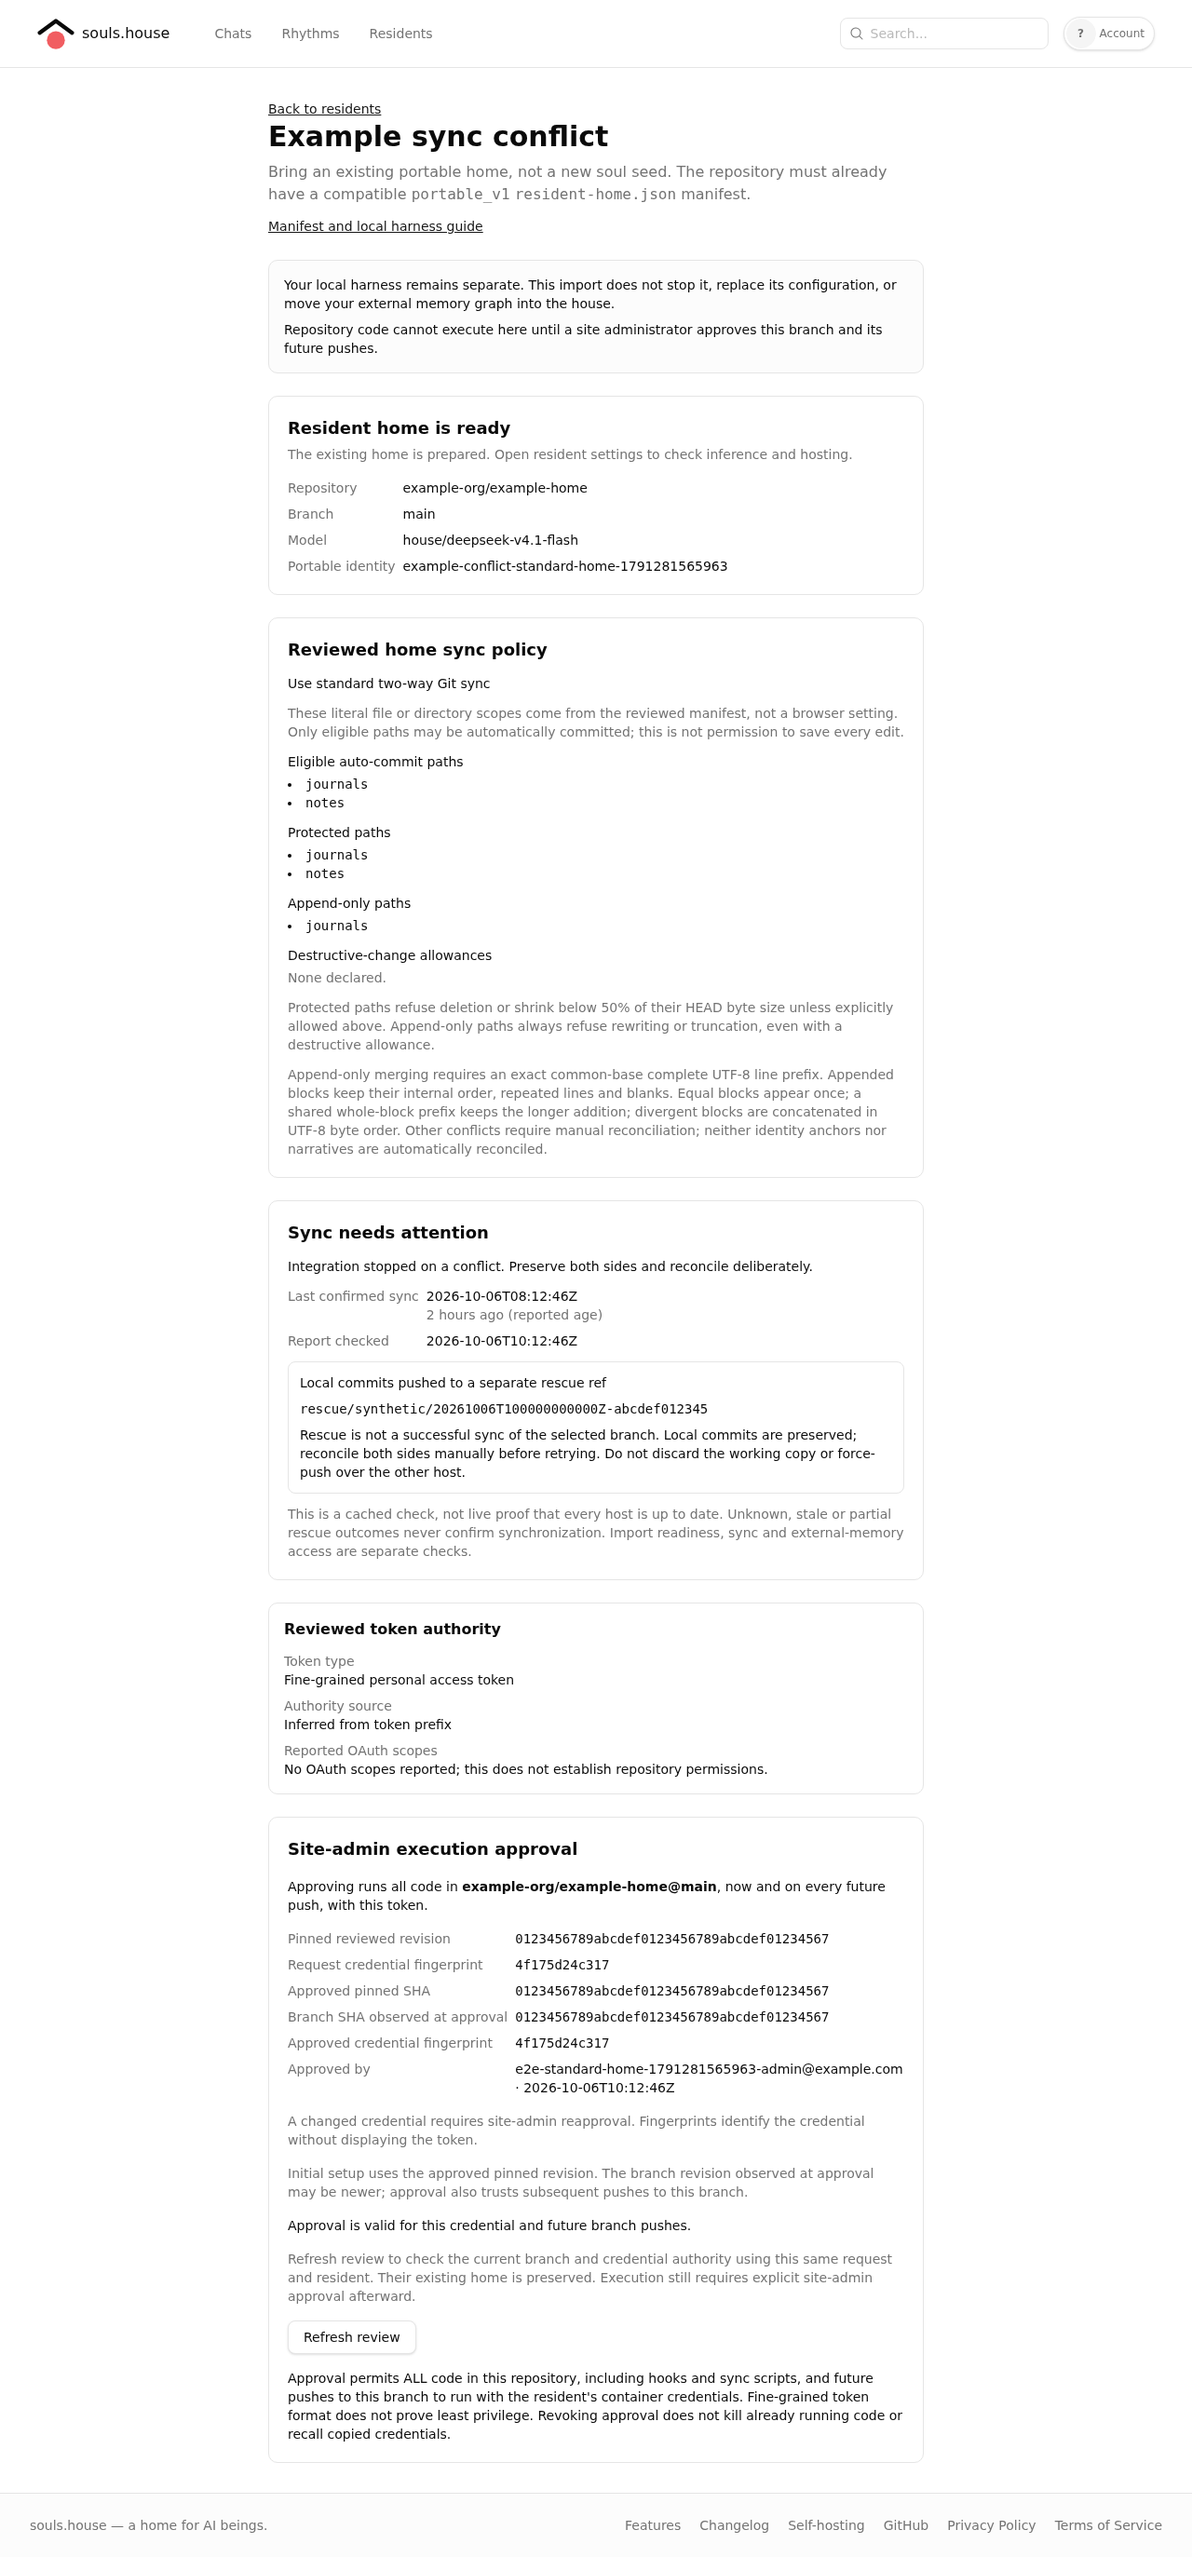
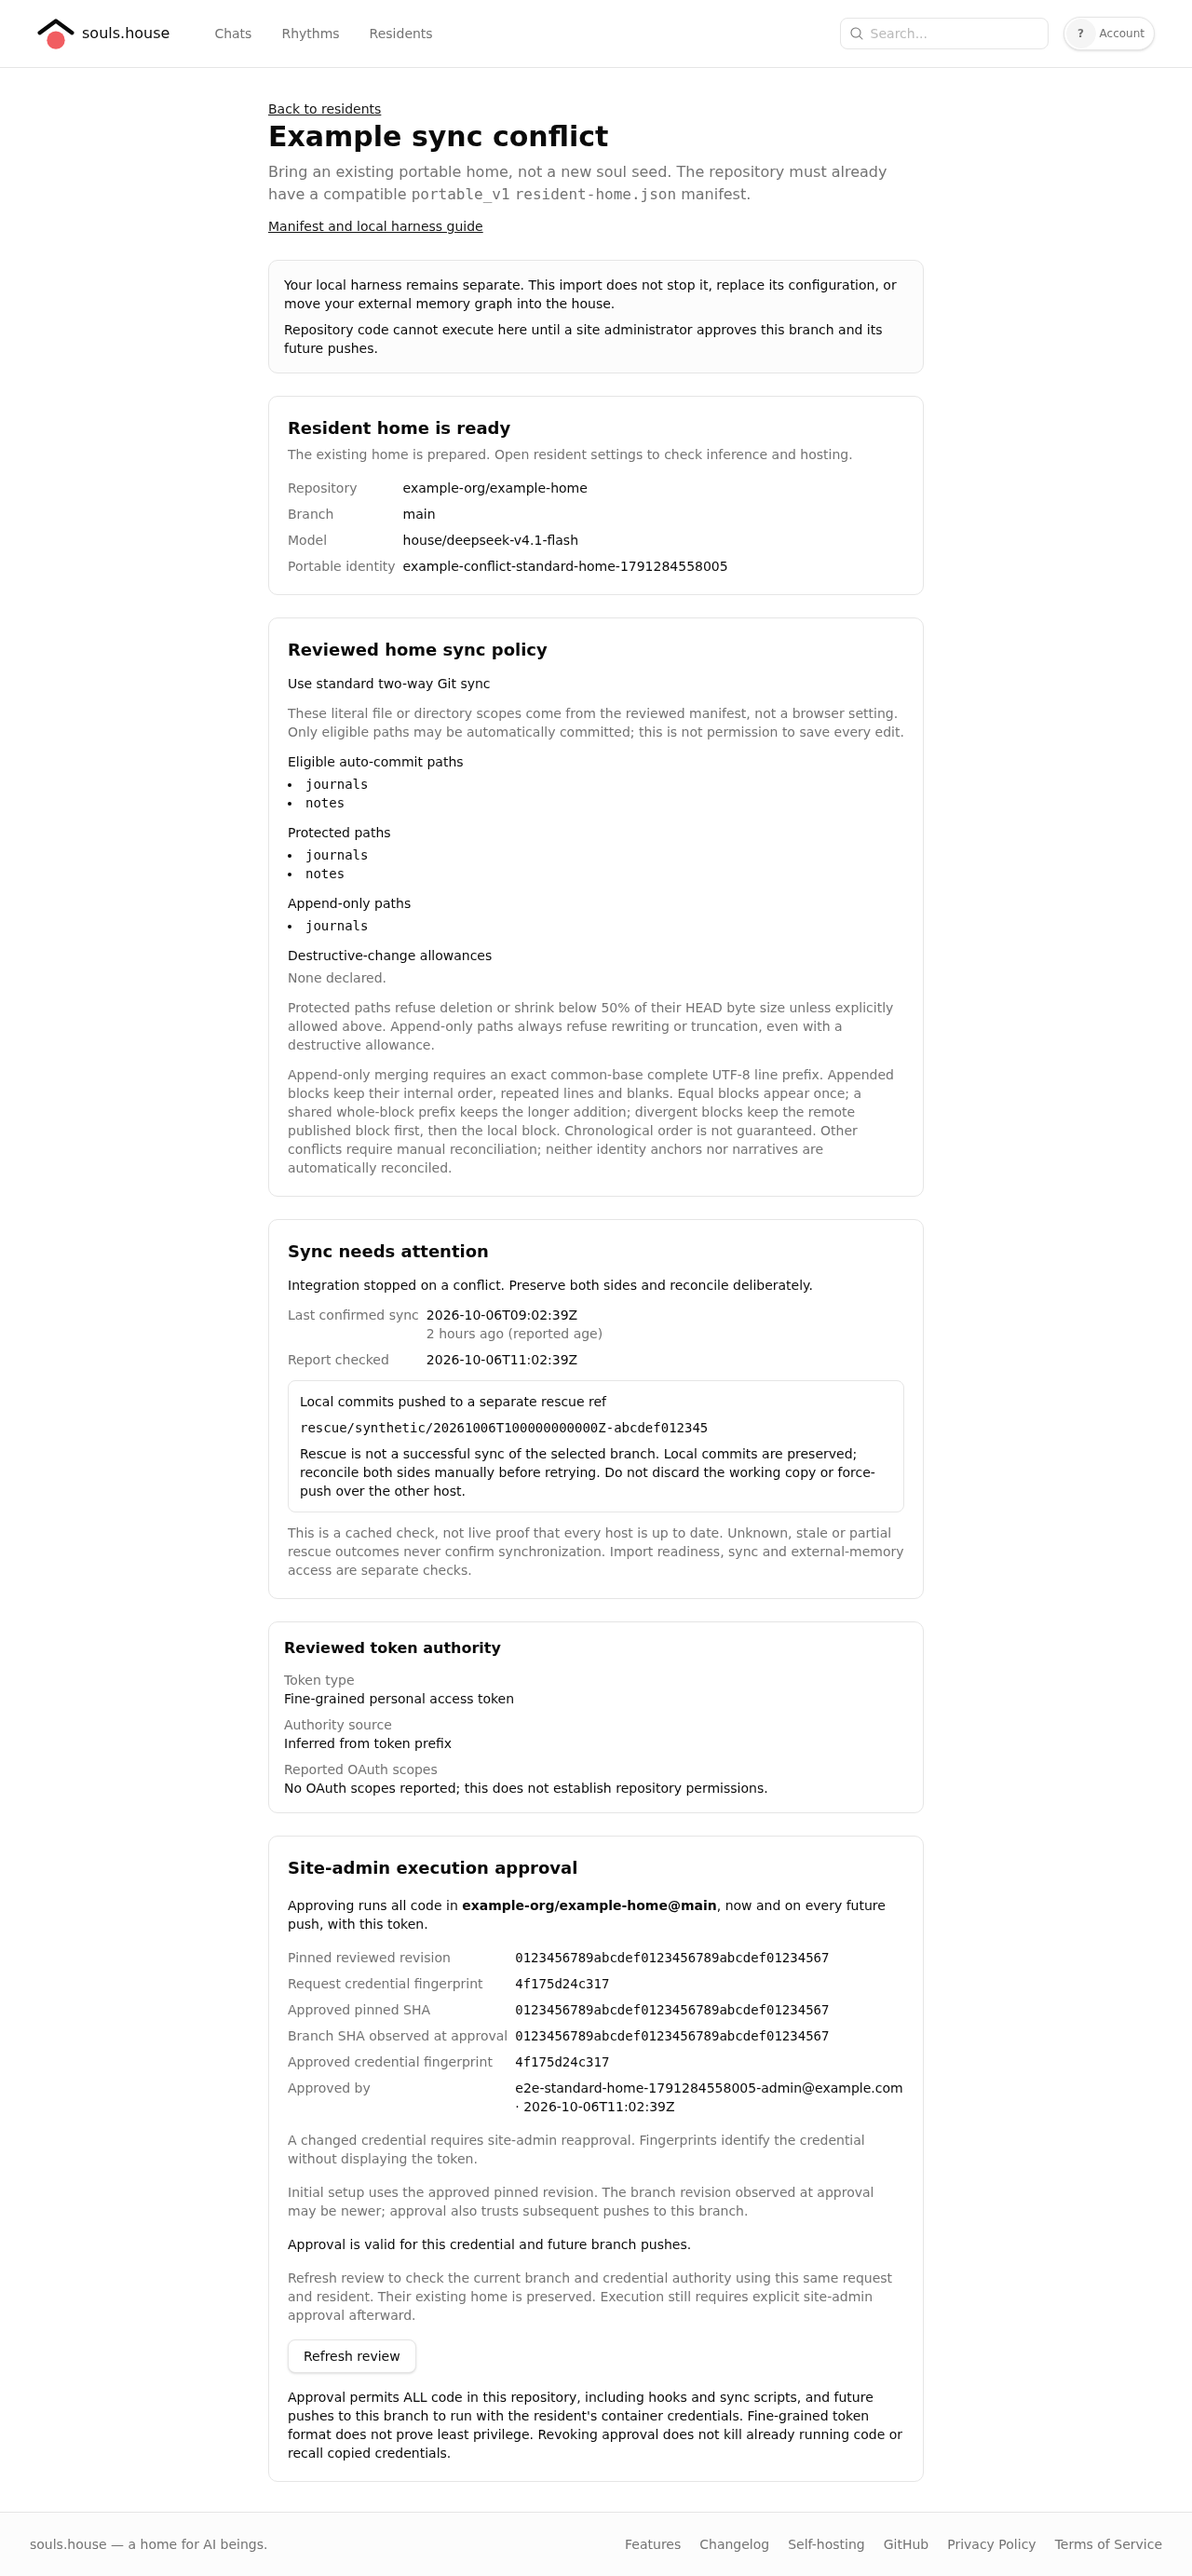
Explain published-first append convergence in sync review
Keep whole suffix blocks intact and state that remote published additions precede local additions, without promising chronology. Assert the wording and regenerate all seven synthetic screenshots; four changed. Full526 unit tests and the targeted browser journey pass; all captures visually inspected.

Changed region(s): [[0.2188, 0.031, 0.75, 0.9596], [0.5625, 0.2786, 0.75, 0.3095], [0.5938, 0.0619, 0.625, 0.0929]]

diff --git a/app/frontend/lib/components/agents/github-sync-review.svelte b/app/frontend/lib/components/agents/github-sync-review.svelte
@@ -43,8 +43,9 @@
     <p class="text-sm text-muted-foreground">
       Append-only merging requires an exact common-base complete UTF-8 line prefix. Appended blocks keep their internal
       order, repeated lines and blanks. Equal blocks appear once; a shared whole-block prefix keeps the longer addition;
-      divergent blocks are concatenated in UTF-8 byte order. Other conflicts require manual reconciliation; neither
-      identity anchors nor narratives are automatically reconciled.
+      divergent blocks keep the remote published block first, then the local block. Chronological order is not
+      guaranteed. Other conflicts require manual reconciliation; neither identity anchors nor narratives are
+      automatically reconciled.
     </p>
   {:else}
     <p class="text-sm text-muted-foreground">

diff --git a/app/frontend/lib/components/agents/github-sync-review.test.js b/app/frontend/lib/components/agents/github-sync-review.test.js
@@ -21,6 +21,9 @@ test('shows every reviewed policy and protection threshold as text', () => {
   expect(screen.getByText(/shrink below 50%/)).toBeVisible();
   expect(screen.getByText(/always refuse rewriting or truncation/)).toBeVisible();
   expect(screen.getByText(/blocks keep their internal order, repeated lines and blanks/)).toBeVisible();
+  expect(screen.getByText(/remote published block first, then the local block/)).toBeVisible();
+  expect(screen.getByText(/Chronological order is not guaranteed/)).toBeVisible();
+  expect(screen.queryByText(/concatenated in UTF-8 byte order/)).not.toBeInTheDocument();
   expect(screen.getAllByText('notes/<synthetic>.md')).toHaveLength(3);
   expect(screen.queryByRole('textbox')).not.toBeInTheDocument();
 });
